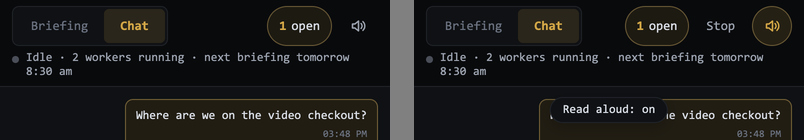
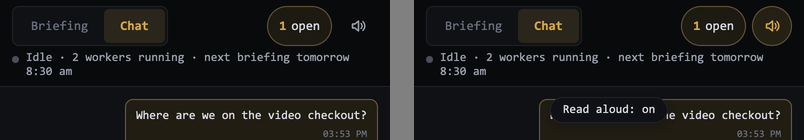
feat: no Stop in the Billion bar; the speaker stops speech and turns read-aloud off
A tap on the speaker while anything is read cancels it and leaves read
aloud off ("Read aloud: off"); the next tap turns it on. Resume reading
stays for the browser's tap-before-speech rule after a reload.

Changed region(s): [[0.7774, 0.0286, 0.9328, 0.3429], [0.9328, 0.9429, 0.9639, 0.9714], [0.4042, 0.9429, 0.4353, 0.9714]]

diff --git a/test/client-waiting.test.js b/test/client-waiting.test.js
@@ -12,7 +12,7 @@ import { updateTabs, switchToSession, removeSession, setupUpload } from '../publ
 import { readFileSync } from 'node:fs';
 import { showWaiting, renderWaiting, handleWaitingError, handleChatSent, handleChatMessage, leaveWaiting, answerTarget, replyToQuestion, setBillionNotice, _resetComposer, questionGroups, setQuestionsOpen, setTelegramState, setGroupBy, _reloadQuestionPrefs } from '../public/modules/waiting.js';
 import { voiceTarget, stopVoice, setupVoice } from '../public/modules/voice.js';
-import { _resetReadAloud, speakingMessage, stopReading } from '../public/modules/readaloud.js';
+import { _resetReadAloud, speakingMessage, stopReading, autoReadOn } from '../public/modules/readaloud.js';
 
 const open = (n, extra = {}) => ({ id: `w${n}`, n, text: `Question ${n}?`, at: new Date().toISOString(), status: 'open', ...extra });
 const bubbleOf = (qid) => document.querySelector(`.chat-msg[data-q="${qid}"]`);
@@ -551,6 +551,30 @@ describe('read aloud and dictation in the tab', () => {
     expect(css).toMatch(/@container billion \(max-width: 720px\) \{\s*\.chat-autoread \{[^}]*\}\s*\.chat-autoread-label \{ display: none; \}/);
   });
 
+  it('a tap on the speaker while something is read stops it and leaves reading off; the next tap turns it on', () => {
+    const toggle = document.getElementById('chat-autoread');
+    const note = document.getElementById('chat-toast');
+    expect(document.getElementById('chat-stop-reading')).toBeNull();   // no Stop in the bar
+    // Off, with one message being read from its own speaker.
+    setChatMessages([billion('m1', 'Long.')]);
+    renderWaiting();
+    document.querySelector('.chat-speak').click();
+    expect(speakingMessage()).toBe('m1');
+    toggle.click();
+    expect([speakingMessage(), toggle.getAttribute('aria-pressed'), note.textContent]).toEqual([null, 'false', 'Read aloud: off']);
+    expect(window.speechSynthesis.cancel).toHaveBeenCalled();
+    // On, and reading a new message as it arrives.
+    toggle.click();
+    expect([toggle.getAttribute('aria-pressed'), note.textContent]).toEqual(['true', 'Read aloud: on']);
+    spoken.at(-1).onend();                          // the confirmation
+    handleChatMessage(billion('m2', 'Second.'));
+    expect(speakingMessage()).toBe('m2');
+    toggle.click();
+    expect([speakingMessage(), toggle.getAttribute('aria-pressed'), autoReadOn(), note.textContent]).toEqual([null, 'false', false, 'Read aloud: off']);
+    toggle.click();
+    expect([toggle.getAttribute('aria-pressed'), note.textContent]).toEqual(['true', 'Read aloud: on']);
+  });
+
   it('each tap on the speaker says the new state in a toast, which goes after a moment', () => {
     vi.useFakeTimers();
     try {
@@ -580,7 +604,7 @@ describe('read aloud and dictation in the tab', () => {
     for (const id of ['chat-input', 'chat-mic', 'chat-send']) {
       expect(document.getElementById(id).classList.contains('chat-control'), id).toBe(true);
     }
-    for (const id of ['chat-strip', 'chat-resume', 'chat-stop-reading', 'chat-autoread']) {
+    for (const id of ['chat-strip', 'chat-resume', 'chat-autoread']) {
       expect(document.getElementById(id).classList.contains('billion-bar-control'), id).toBe(true);
     }
     const css = readFileSync('public/style.css', 'utf8');
@@ -589,7 +613,7 @@ describe('read aloud and dictation in the tab', () => {
     expect(css).toMatch(/\.chat-mic \{[^}]*width: var\(--chat-control-h\);/);
     // No rule anywhere, media queries included, gives one of them its own
     // height to drift from the token.
-    const controls = /(#chat-input|\.chat-mic|\.waiting-send|\.chat-autoread|\.chat-resume|\.chat-stop-reading|\.chat-strip)(?![-\w])/;
+    const controls = /(#chat-input|\.chat-mic|\.waiting-send|\.chat-autoread|\.chat-resume|\.chat-strip)(?![-\w])/;
     const rules = [...css.matchAll(/([^{}]+)\{([^{}]*)\}/g)].filter(([, sel]) => controls.test(sel));
     expect(rules.length).toBeGreaterThan(5);
     for (const [, sel, body] of rules) expect(body, sel.trim()).not.toMatch(/(^|[\s;])(min-|max-)?height:/);

diff --git a/public/modules/waiting.js b/public/modules/waiting.js
@@ -546,8 +546,7 @@ function paintSpeakButton(btn) {
 }
 
 // The bar's read-aloud controls: the speaker that turns "read new messages
-// aloud" on and off, the one-tap "Resume reading" after a reload, and Stop
-// while something is read.
+// aloud" on and off, and the one-tap "Resume reading" after a reload.
 function renderReadHead() {
   const toggle = document.getElementById('chat-autoread');
   if (!toggle) return;
@@ -559,8 +558,6 @@ function renderReadHead() {
   resume.hidden = !waiting;
   const queued = queuedCount();
   resume.textContent = queued ? `Resume reading (${queued} new)` : 'Resume reading';
-  const stop = document.getElementById('chat-stop-reading');
-  stop.hidden = speakingMessage() === null && !queued || waiting;
 }
 
 // A password manager or AutoFill can pin its own overlay (the page's
@@ -626,8 +623,8 @@ function toast(text) {
 }
 
 // The Chat view's end of the bar: the open questions chip, Resume reading
-// and Stop when they apply, and the speaker that turns reading new messages
-// aloud on and off. Built once.
+// when the browser wants a tap first, and the speaker that turns reading new
+// messages aloud on and off. Built once.
 function readHead() {
   const head = el('div', 'chat-head');
   head.id = 'chat-head';
@@ -638,12 +635,6 @@ function readHead() {
   resume.title = 'The browser lets a page speak only after a tap: tap to go on reading new messages aloud';
   resume.hidden = true;
   resume.onclick = () => resumeReading();
-  const stop = el('button', 'chat-stop-reading billion-bar-control', 'Stop');
-  stop.id = 'chat-stop-reading';
-  stop.type = 'button';
-  stop.setAttribute('aria-label', 'Stop reading aloud');
-  stop.hidden = true;
-  stop.onclick = () => stopReading();
   const toggle = el('button', 'chat-autoread billion-bar-control');
   toggle.id = 'chat-autoread';
   toggle.type = 'button';
@@ -653,11 +644,15 @@ function readHead() {
   toggle.title = 'Read new messages aloud';
   toggle.innerHTML = SPEAKER_SVG;
   toggle.appendChild(el('span', 'chat-autoread-label', 'Read aloud'));
+  // While something is being read, a tap means "be quiet": it stops the
+  // speech and leaves reading new messages aloud off.
   toggle.onclick = () => {
-    setAutoRead(!autoReadOn());
+    const speaking = speakingMessage() !== null || queuedCount() > 0;
+    if (speaking) stopReading();
+    setAutoRead(speaking ? false : !autoReadOn());
     toast(`Read aloud: ${autoReadOn() ? 'on' : 'off'}`);
   };
-  head.append(resume, stop, toggle);
+  head.append(resume, toggle);
   return head;
 }
 

diff --git a/public/style.css b/public/style.css
@@ -1993,7 +1993,7 @@ a.chat-file-chip:hover { border-color: var(--accent); }
 .waiting-board.dropping { outline: 2px dashed var(--accent); outline-offset: -6px; }
 
 /* Read aloud and dictation (readaloud.js, voice.js's chat target). The
-   bar's end holds the chip, Resume and Stop when they apply, and the
+   bar's end holds the chip, Resume when the browser wants a tap first, and the
    speaker, which turns reading new messages aloud on and off (accent while
    on). The voice is picked in Settings. */
 .chat-head {
@@ -2003,7 +2003,7 @@ a.chat-file-chip:hover { border-color: var(--accent); }
   margin-left: auto;
   flex-shrink: 0;
 }
-.chat-resume, .chat-stop-reading, .chat-autoread {
+.chat-resume, .chat-autoread {
   display: inline-flex;
   align-items: center;
   justify-content: center;
@@ -2024,11 +2024,11 @@ a.chat-file-chip:hover { border-color: var(--accent); }
   .chat-autoread { width: var(--bar-control-h); padding: 0; border-radius: 50%; }
   .chat-autoread-label { display: none; }
 }
-.chat-autoread:hover, .chat-stop-reading:hover { color: var(--text); border-color: var(--border); }
+.chat-autoread:hover { color: var(--text); border-color: var(--border); }
 .chat-autoread.on { color: var(--accent); background: color-mix(in srgb, var(--accent) 14%, transparent); border-color: color-mix(in srgb, var(--accent) 40%, var(--border)); }
-.chat-autoread:focus-visible, .chat-resume:focus-visible, .chat-stop-reading:focus-visible { outline: 2px solid var(--accent); outline-offset: 1px; }
+.chat-autoread:focus-visible, .chat-resume:focus-visible { outline: 2px solid var(--accent); outline-offset: 1px; }
 .chat-resume { color: var(--accent-contrast); background: var(--accent); font-weight: 700; }
-.chat-resume[hidden], .chat-stop-reading[hidden] { display: none; }
+.chat-resume[hidden] { display: none; }
 /* What a tap just did ("Read aloud: on"), at the top of the thread. */
 .chat-toast {
   position: absolute;
@@ -2106,7 +2106,7 @@ a.chat-file-chip:hover { border-color: var(--accent); }
 @media (max-width: 700px) {
   .chat-file-remove { min-width: 32px; min-height: 32px; }
   /* Beside the 16px inputs iOS needs, 11px labels looked lost. */
-  .waiting-send, .chat-resume, .chat-stop-reading { font-size: 13px; }
+  .waiting-send, .chat-resume { font-size: 13px; }
   .chat-wide { display: none; }
   /* The text box gets the row: tighter edges and a Send only as wide as
      its word, so "Message Billion" fits at 360px. */

diff --git a/docs/FEATURES.md b/docs/FEATURES.md
@@ -6,7 +6,7 @@ The full tour. Agent 007 grows with how much you hand off: web terminals for you
 - **Billion comes to you twice a day** -- Billion's questions come in two rounds a day, 08:30 and 15:30 your time (`rounds`, `roundMaxPerProject` and `roundsTimeZone` in `~/.agent-007/config.json`; `rounds: []` turns it off). `notify_owner` queues a question under its project; at each round the server shows you at most two per project, the most important first (blocking, normal, low, then Billion's `rank`, then newest), with Billion's brief on top, and sends one Telegram message for the whole round. Whatever the previous round left unanswered is consolidated: kept in *Earlier*, off your list, and Billion is told so it re-asks only what is still in a project's top two. Only a blocking question (or `telegram: true`) reaches you between rounds. Until the first round comes due a new install's questions show at once, so its introduction and first cycle never wait for 08:30. Once a round has been released the Billion tab opens on **This round** (before that, on **Chat**, unless you picked one) (one section per project, tap choices and a reply box on each card, answered cards folding in place, "3 of 7 done"); the chat moved to a **Chat** view beside it. A status line on top says what Billion is doing ("Working: reviewing PR #120 · 3 workers running · next round 3:30 pm"; Billion's `set_status`, and "Billion is working on your message…" until it replies). Every item in a round has a number: tap *Done* or type `1d` (`1d 3d` for several) and Billion reads `[Owner via app] item 1 done`. *Start the round now* (or typing "start the round now") releases the next round early. What you type is never held for a round: each pending message has its own progress box of concise `set_status` summaries, with only the oldest unanswered message receiving updates. When its reply arrives, those summaries fold into closed **Work details** beneath the answer; tap to expand them. Progress never reads terminal output, and reply bindings and summaries survive reconnects and server restarts. On the first start with rounds, open questions other than blocking ones are consolidated. See [BILLION.md](BILLION.md#rounds).
 - **Talk to Billion in the Billion tab** -- The Billion tab's **Chat** view is a chat thread with Billion; the tab is the one a page opens on (it cannot be closed). It is the web twin of its Telegram channel, so the conversation is not buried under the board notices and worker messages in its terminal (which stays the work log). Type in the box at the bottom (Enter sends) and it reaches Billion as `[Owner via app] ...`; a message starting with `/` (`/model opus`) runs as a slash command in Billion's terminal instead, with its screen shown back in the thread (`//` sends a literal `/`; [details](BILLION.md#telegram)); Billion's `tell_owner` replies and questions show as bubbles on the left, your messages on the right, Telegram ones included (voice notes as their transcript, marked *(voice)*). Typing is always a plain message: to answer a question by typing, tap *Reply* under it and the box says "Answers Q3". *Undo* takes an answer back for a minute after, and Billion can reopen a question with `reopen_question`. Open questions also pin to a strip at the top ("3 open questions ▾"); tap it, or the tab's badge, for the **Open questions** panel: one section per project (Billion passes `project` to `notify_owner`, or the server reads it off a GitHub URL or repo name in the question, else `general`), or, with the *by project | by type* switch, one per type (engineering, marketing, outreach, finance, product, admin, other; Billion passes `type`, or the server reads it off the text). Sections start closed, their header showing the count and "!" when a blocking question is inside; the grouping and which sections are open are kept per browser. Each row is answered in place with its choices or *Reply*, and its text jumping to the bubble. × or Esc closes it; on a phone it fills the screen. The thread, the panel and the Jobs tab's columns update in place when something changes, so a refresh never moves you: where you have scrolled to stays put, and the thread only follows new messages while you are already at the bottom (otherwise *New messages ↓* appears). The last 500 messages are kept in `~/.agent-007/chat.json`, with open questions and unanswered owner requests retained beyond that cap until answered.
 - **Show Billion a screenshot or a file** -- In the Billion tab, paste an image (Cmd/Ctrl+V), drop files anywhere on the tab, or pick them with the paperclip beside the mic. They show as chips above the box (a thumbnail for an image, name and size otherwise, × to remove) and go with the next Send; files alone, with no text, send too. They are saved owner-only in `~/.agent-007/chat-files/<message id>/`, and the turn Billion gets ends with their absolute paths, `[Owner via app] <text> (attached: /path/a.png, /path/b.pdf)` (an answer the same way, `[Owner via app] Q3: ...`), so it reads them with its file tools. The limits are the job form's: 10MB a file, 20 files and 50MB a message. Your bubble keeps them as thumbnails that open full size and download links, served only from that folder and only while user accounts are off (the chat is the owner's alone); they go when the message leaves chat history; unanswered owner requests stay past the 500-message cap. Treat a file from outside like pasted instructions: Billion acts on what it reads.
-- **Read aloud and dictate in the Billion tab** -- A speaker button on every message from Billion reads it aloud with the browser's own voices (free, nothing leaves the browser): markdown dropped, links read as "link", Q51 as "question 51", a question's choices at the end, long messages spoken sentence by sentence; tap again to stop, and pick the voice in Settings (the gear, under *Read aloud*). Tap *Read aloud* (the speaker) in the bar at the top of the tab to turn on reading new messages aloud, and each new message is spoken as it arrives while the tab is showing (after a reload, one tap on *Resume reading*). The mic beside the text box dictates a reply into the box, greyed while it is heard, and never sends it for you; in "Answers Q3" mode it answers Q3 like typed text. Locked-screen playback on a phone is not reliable in mobile browsers; Telegram voice notes cover that. See [BILLION.md](BILLION.md#read-aloud-and-dictation-in-the-tab).
+- **Read aloud and dictate in the Billion tab** -- A speaker button on every message from Billion reads it aloud with the browser's own voices (free, nothing leaves the browser): markdown dropped, links read as "link", Q51 as "question 51", a question's choices at the end, long messages spoken sentence by sentence; tap again to stop, and pick the voice in Settings (the gear, under *Read aloud*). Tap *Read aloud* (the speaker) in the bar at the top of the tab to turn on reading new messages aloud, and each new message is spoken as it arrives while the tab is showing (tap it while it reads to stop and turn it off; after a reload, one tap on *Resume reading*). The mic beside the text box dictates a reply into the box, greyed while it is heard, and never sends it for you; in "Answers Q3" mode it answers Q3 like typed text. Locked-screen playback on a phone is not reliable in mobile browsers; Telegram voice notes cover that. See [BILLION.md](BILLION.md#read-aloud-and-dictation-in-the-tab).
 - **Talk to Billion** -- A hands-free voice conversation with the same Billion in the Billion tab's Chat view: tap *Talk to Billion*, allow the mic, and speak. Each utterance is detected in the browser (Silero VAD, served by the app), transcribed on your machine by whisper.cpp and sent once as a voice turn; Billion's reply to that turn is spoken by the same macOS `say` voice as Telegram, then it listens again. Talk over it to interrupt; Listening, Thinking, Speaking, Muted and Disconnected states with Mute and End; the chat thread is the transcript. Replies to typed or Telegram messages are never spoken as a voice turn's answer. No audio leaves the machine; without whisper.cpp or `say` it falls back to the browser's speech and says so. See [BILLION.md](BILLION.md#talk-to-billion).
 - **Billion asks you on your phone** -- When Billion needs you, its `notify_owner` tool puts the question, numbered (Q3), in the **Billion** tab next to Jobs (a chat bubble and "Billion", with a badge counting open questions; the same in a phone's bottom bar) and, with `TELEGRAM_BOT_TOKEN` and `TELEGRAM_CHAT_ID` set, sends it to you through a Telegram bot when it is **blocking** (or Billion passes `telegram: true` for a super urgent one); normal and low questions wait in the tab. A question can carry 2 to 5 `choices` with one `recommended`: tap one under the question in the tab or its Telegram button, or type an answer in the tab's text box or as a Telegram reply to the question. It reaches Billion as `[Owner via app] Q3: ...` or `[Owner via Telegram] Q3: ...`, and the question is marked answered in both places (the Telegram message is edited to show the answer). Each question carries an `urgency`: open ones list **blocking** first (marked `! Q3`: a worker or merge is waiting, and the Telegram message starts with `! `), then normal, then **low** (number dimmed: optional), oldest first within each. Answered ones stay in the thread with "you answered: ..."; *Dismiss* closes one; everything survives restarts. Anything else you send the bot is typed into Billion's terminal as `[Owner via Telegram] ...`. Telegram buzzes for blocking questions only, and Billion's `tell_owner` replies reach it only while you are talking on the phone: after a message from the tab they stay in the tab ([details](BILLION.md#telegram)). The bot is Billion's own, so its messages carry no name: `Q3: ...`, `! Q3: ...`, or a reply's text alone. Only your chat is accepted. Setup in three steps is in [BILLION.md](BILLION.md#telegram). **Voice both ways, all local**: on macOS with ffmpeg, Billion's messages can arrive as voice notes (spoken by `say`, with the text as caption), and your voice notes are transcribed on your machine by whisper.cpp and reach Billion as `[Owner via Telegram, voice] ...`. By default Billion answers in the mode you last used (`TELEGRAM_VOICE`); see [Voice](BILLION.md#voice).
 - **Claude account rotation** -- In **Settings → Auto-switch accounts**, click **Find logged-in accounts** to start, or add a config folder. Automatic rotation turns on by default once two accounts have been added. Choose the included accounts and their order, then save changes. A saved off setting stays off when accounts are added or rediscovered; recovery also keeps rotation off. A hard limit on Billion or a managed Claude worker selects the next eligible login. Only authentication and account-specific metadata change: the current Claude config directory retains all settings, history, plugins, skills, MCP servers and trust settings. The app blocks new Claude spawns, stops its Claude sessions and tool processes, saves the outgoing account's latest refresh token, activates the next login, and resumes each exact conversation with its startup options. Unsupported custom startup flags prevent the switch instead of silently losing options. The scan refuses a switch while it detects another Claude process outside the app; do not launch another during a switch or use the source login folders concurrently. Saved credentials live in owner-only `account-logins/` files under the app config directory (POSIX 0600 files, 0700 directory; Windows uses the user's filesystem ACLs). Account order, active identity, limits and a recovery journal persist in `account-rotation.json`; secrets never reach the browser or logs. Discovery does not overwrite maintained credentials with a stale source copy. Failed activation restores the previous login; an interrupted or failed rollback blocks further switches and offers **Restore previous login**, which turns automatic rotation off. Explicit relative or ISO reset times are respected; ambiguous local clock labels use a 30-minute retry delay. Exhausted workers wait. Billion may fall back to Codex when enabled, subject to `BILLION_AUTO_SWITCH` and the existing CLI-switch cooldown. Codex-to-Claude first selects an eligible login too. Cross-CLI handovers export up to 80 recent dialogue/tool entries, about 96,000 characters total and 8,000 per entry, with explicit truncation notes and a pointer to the original transcript. Private reasoning is excluded. Billion's own Git directory remains the source of persistent state and pending work. Account rotation itself needs no handover. This replaces the permanent-move UI; old backups remain recoverable. Controls remain owner-only, hidden when app user accounts are enabled or Billion is off.

diff --git a/changelog.d/bill10-billion-tab-the-top-of-the-chat-view-is.md b/changelog.d/bill10-billion-tab-the-top-of-the-chat-view-is.md
@@ -3,4 +3,4 @@ bump: minor
 ---
 ### Changed
 
-- **The Billion tab's Chat view starts near the top.** The status line, the Briefing/Chat tabs, the read-aloud row and the open questions strip were four bars before the first message; they are now one bar. Briefing | Chat is a segmented control beside the status line, the open questions are one chip ("2 open questions", "!" when one is blocking) that opens the panel, and a speaker button labelled "Read aloud" (icon only on narrow panes) is the "Read new messages aloud" switch: one tap on, one off, with a "Read aloud: on/off" toast. The voice picker moved to Settings: "Voice for reading messages aloud", under "Read aloud". On a phone, or a narrow pane, the status line is a quiet line under the controls, and the chat gets back about 130px.
+- **The Billion tab's Chat view starts near the top.** The status line, the Briefing/Chat tabs, the read-aloud row and the open questions strip were four bars before the first message; they are now one bar. Briefing | Chat is a segmented control beside the status line, the open questions are one chip ("2 open questions", "!" when one is blocking) that opens the panel, and a speaker button labelled "Read aloud" (icon only on narrow panes) is the "Read new messages aloud" switch: one tap on, one off, with a "Read aloud: on/off" toast; a tap while it reads stops the speech and turns it off, so the bar has no separate Stop. The voice picker moved to Settings: "Voice for reading messages aloud", under "Read aloud". On a phone, or a narrow pane, the status line is a quiet line under the controls, and the chat gets back about 130px.

diff --git a/DESIGN.md b/DESIGN.md
@@ -1023,9 +1023,10 @@ terminal panel on this tab.
   16px at a 1.05 stroke, the same 1.2px line as the header's gear and theme
   icons.
 - The bar's end (`.chat-head`) holds the chip, *Resume reading (N new)* as an
-  accent pill after a reload, *Stop* while reading, and a round speaker
-  button (`#chat-autoread`) that is the *read new messages aloud* switch
-  itself: one tap on, one off. Icon plus "Read aloud" when the tab is 720px
+  accent pill when the browser wants a tap before it speaks (after a
+  reload), and a round speaker button (`#chat-autoread`) that is the *read
+  new messages aloud* switch itself: one tap on, one off. There is no Stop:
+  a tap while anything is being read stops it and leaves the switch off. Icon plus "Read aloud" when the tab is 720px
   or wider, icon only (round) below that. Its name and tooltip are "Read new
   messages aloud" and `aria-pressed` carries the state; accent on a 14%
   accent tint while on. Each tap shows a toast (`.chat-toast`: a `--bg-panel`

diff --git a/docs/BILLION.md b/docs/BILLION.md
@@ -1049,7 +1049,8 @@ runs in the browser (`speechSynthesis` and the Web Speech API's
 - **Read new messages aloud**: the speaker button in the bar at the top of the tab ("Read aloud" beside it when the tab is wide enough), one tap on and one off, with a brief "Read aloud: on" or "Read aloud: off" to confirm (accent while on; off by
   default, remembered by the browser). While it is on and the tab is showing,
   each new message from Billion is spoken as it arrives, one after another,
-  never over each other. Browsers let a page speak only after a tap on it: the
+  never over each other. Tapping the speaker while anything is being read
+  stops it and turns reading off; tap again to turn it back on. Browsers let a page speak only after a tap on it: the
   switch's own tap counts, but after a reload the tab shows **Resume reading**
   (with how many messages are waiting) until you tap it once. Leaving the
   Billion tab (or the phone's Billion view) stops reading.
